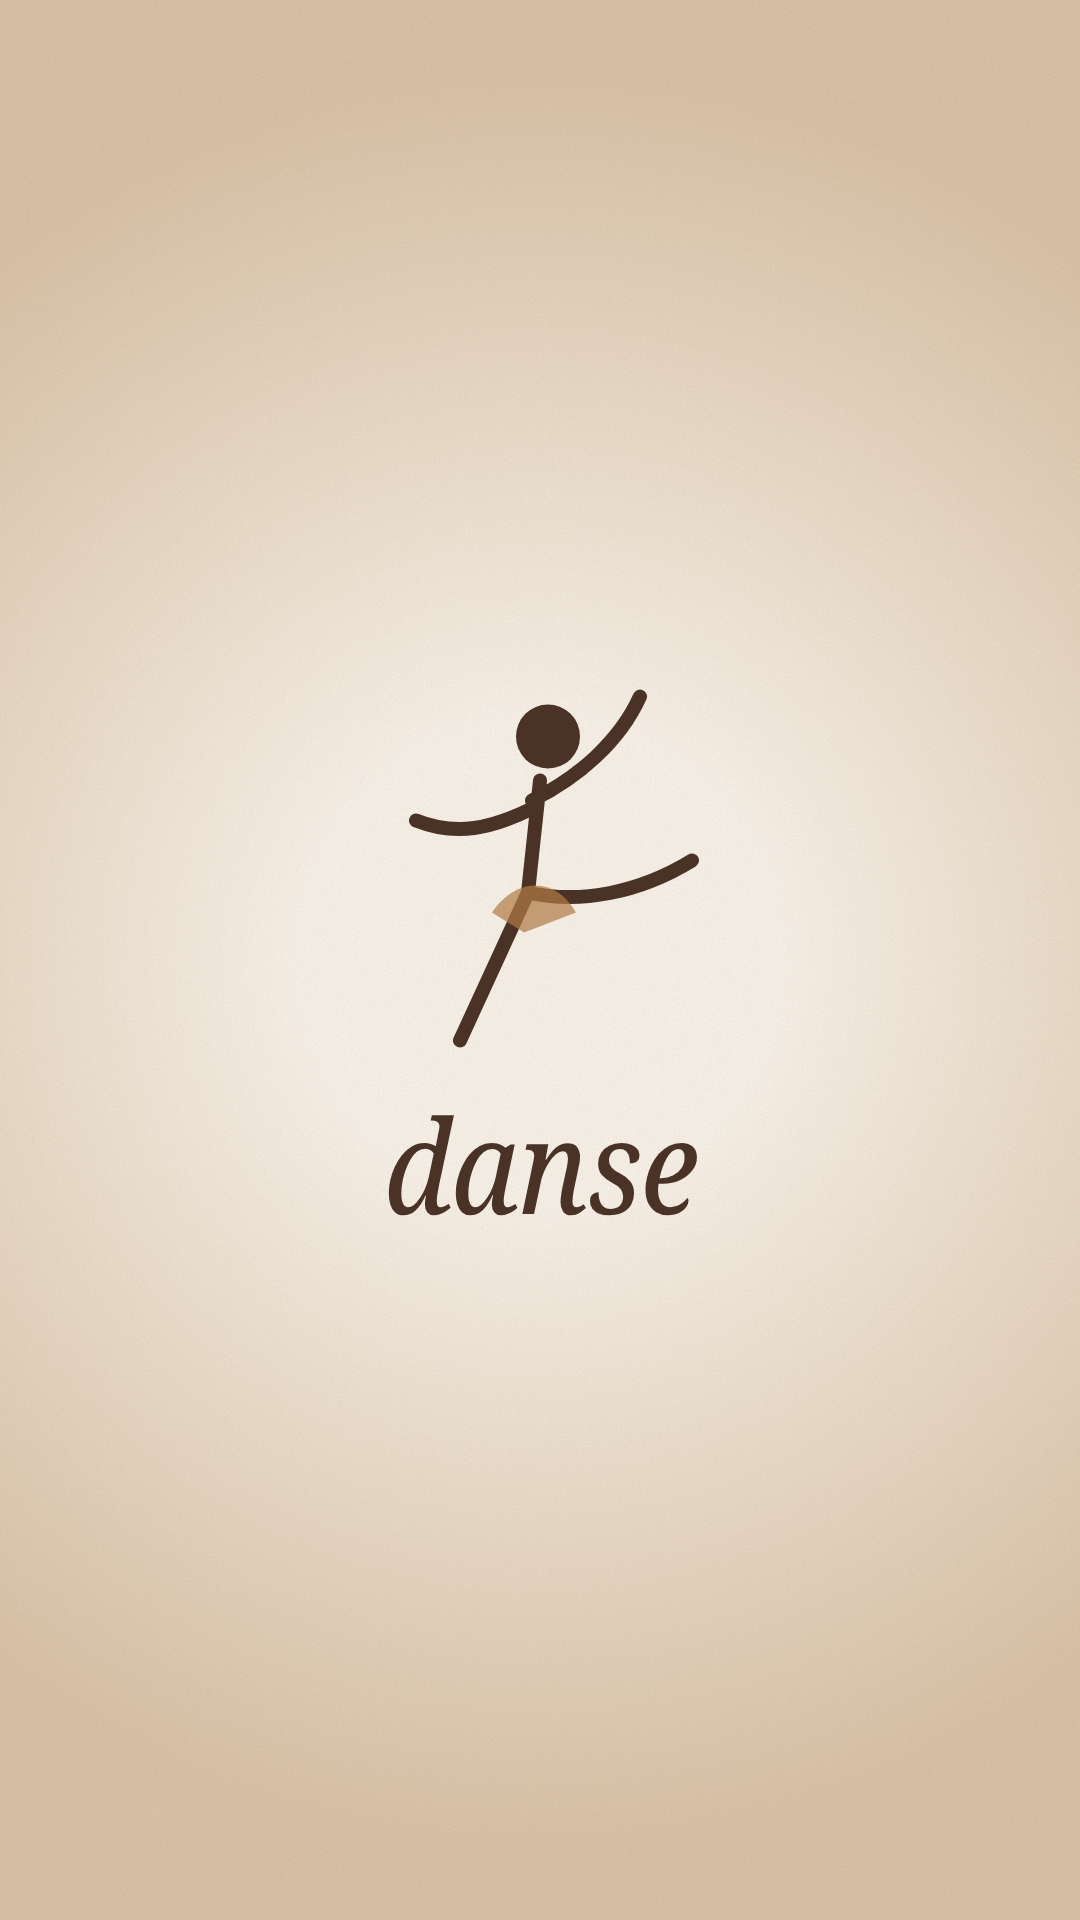
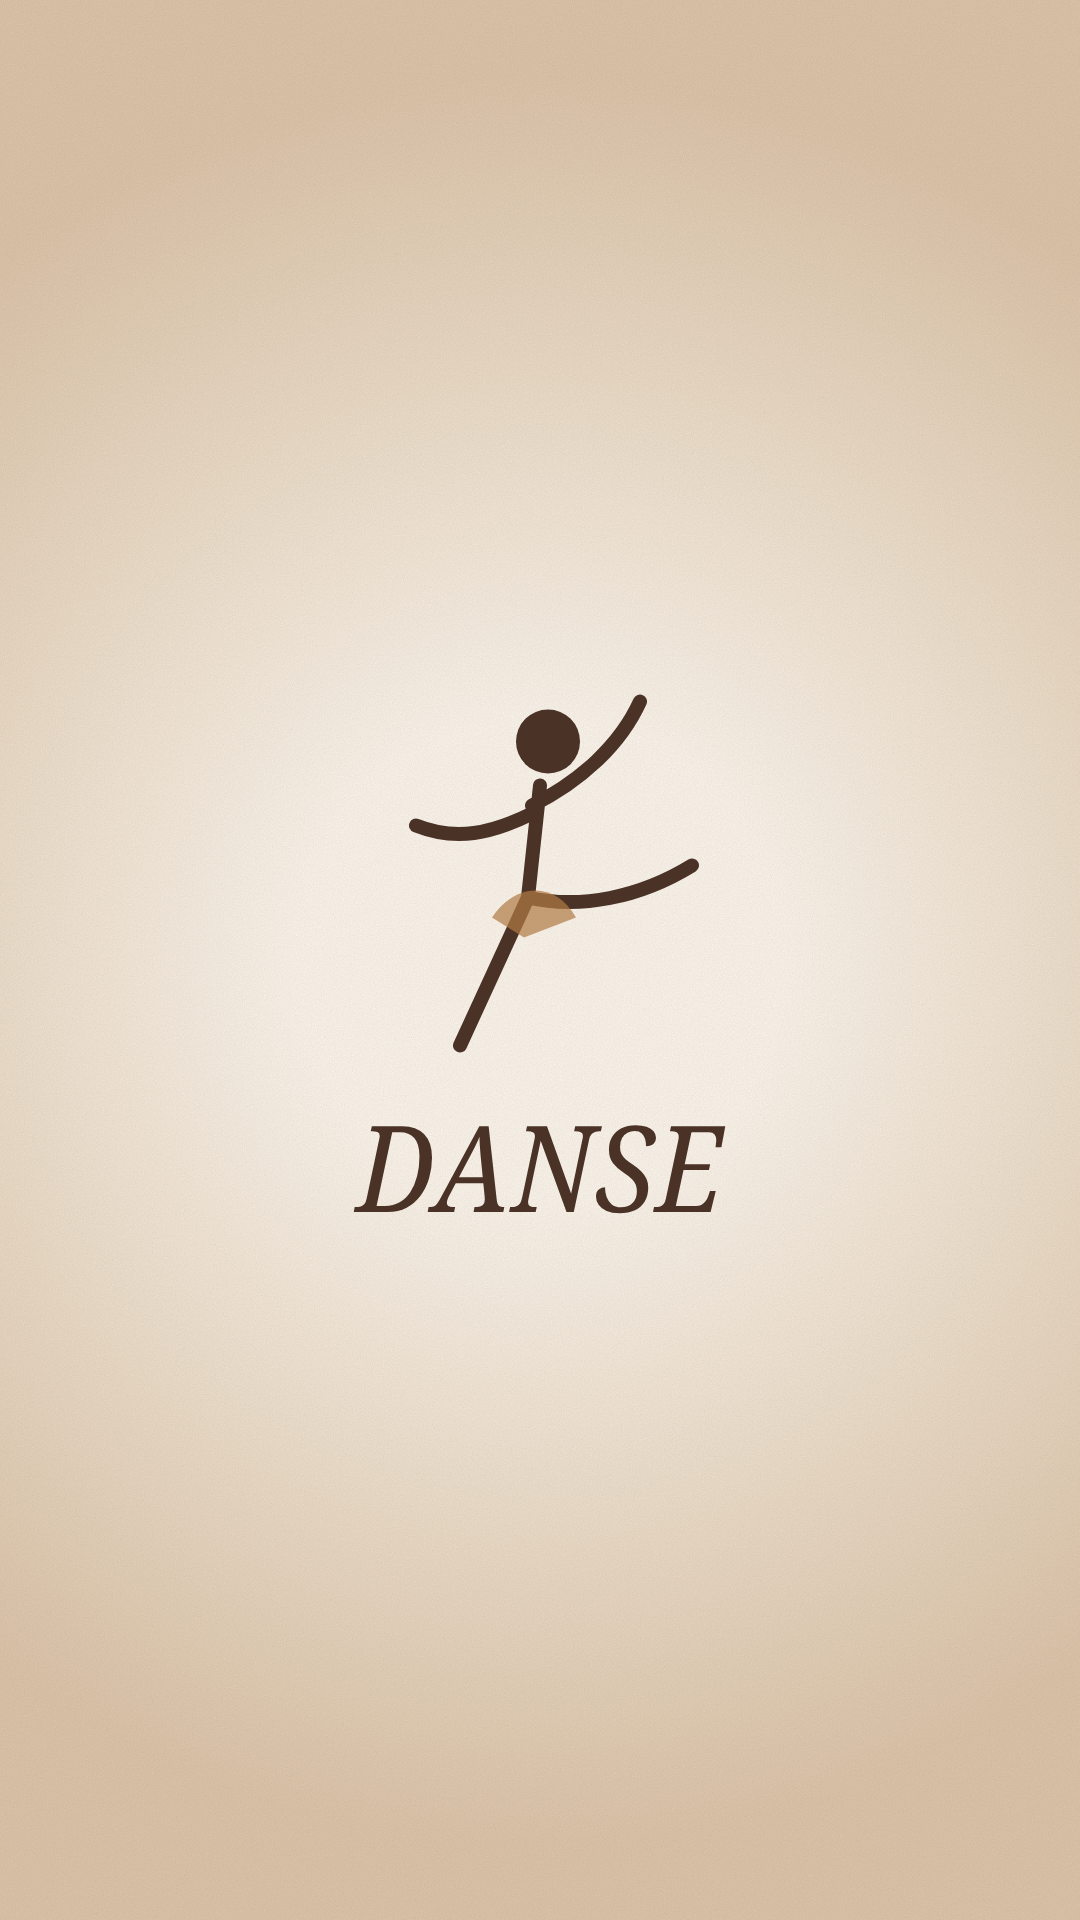
Bulles cocon : MOI, DANSE, CLUB, SPORT, VRAIE VIE, FOOD
Claude-Session: https://claude.ai/code/session_01M6s8wp3XpgKUKSTkvZAW4S

diff --git a/couvertures-bulles-cocon/gen.js b/couvertures-bulles-cocon/gen.js
@@ -10,16 +10,19 @@ const icons={
  tasse:`<svg viewBox="0 0 200 200"><path d="M40 84 H140 V140 C140 164 120 180 96 180 H84 C60 180 40 164 40 140Z" ${S}/><path d="M140 100 H154 C170 100 170 132 154 132 H140" ${S}/><path d="M64 84 V100 C64 112 116 112 116 100 V84" fill="${M}" opacity=".35"/><path d="M90 66 C78 56 82 44 92 40 C100 36 104 44 100 50 C112 40 124 50 112 62 L90 70Z" fill="${M}"/></svg>`,
  halt:`<svg viewBox="0 0 200 200"><path d="M50 100 H150" ${S}/><rect x="28" y="62" width="22" height="76" rx="8" ${S}/><rect x="150" y="62" width="22" height="76" rx="8" ${S}/><rect x="10" y="80" width="16" height="40" rx="6" fill="${M}"/><rect x="174" y="80" width="16" height="40" rx="6" fill="${M}"/></svg>`,
  tel:`<svg viewBox="0 0 200 200"><rect x="56" y="20" width="88" height="160" rx="18" ${S}/><path d="M86 36 H114" ${S} stroke-width="6"/><path d="M100 132 C86 120 72 112 72 98 C72 86 86 80 100 92 C114 80 128 86 128 98 C128 112 114 120 100 132Z" fill="${M}"/><path d="M162 40 l5 14 14 5 -14 5 -5 14 -5 -14 -14 -5 14 -5Z" fill="${M}"/></svg>`,
+ cerise:`<svg viewBox="0 0 200 200"><path d="M100 34 C92 70 74 96 66 120 M100 34 C110 72 126 98 136 124" ${S}/><path d="M100 34 C120 20 150 24 164 42 C142 52 118 48 100 34Z" fill="${M}"/><circle cx="62" cy="146" r="34" fill="#9C2F2F"/><circle cx="140" cy="150" r="34" fill="#9C2F2F"/><path d="M48 134 a16 16 0 0 1 14 -10 M126 138 a16 16 0 0 1 14 -10" stroke="#F6EFE6" stroke-width="6" fill="none" stroke-linecap="round"/></svg>`,
+ camera:`<svg viewBox="0 0 200 200"><rect x="22" y="60" width="156" height="112" rx="22" ${S}/><path d="M70 60 L82 38 H118 L130 60" ${S}/><circle cx="100" cy="116" r="32" ${S}/><circle cx="100" cy="116" r="14" fill="${M}"/><circle cx="152" cy="84" r="7" fill="${M}"/></svg>`,
+ assiette:`<svg viewBox="0 0 200 200"><circle cx="100" cy="110" r="62" ${S}/><circle cx="100" cy="110" r="40" fill="${M}" opacity=".35"/><path d="M22 40 V186 M12 40 V72 a10 10 0 0 0 20 0 V40" ${S} stroke-width="6"/><path d="M186 186 V40 C168 50 166 90 174 110 H186" ${S} stroke-width="6"/></svg>`,
  miel:`<svg viewBox="0 0 200 200"><rect x="50" y="40" width="100" height="22" rx="8" fill="${M}"/><path d="M58 62 H142 C166 86 170 136 148 162 C132 182 68 182 52 162 C30 136 34 86 58 62Z" ${S}/><path d="M60 66 H140 C140 84 128 82 128 96 C128 108 114 108 114 96 C114 84 80 92 76 104 C72 116 60 108 60 96Z" fill="${M}" opacity=".55"/><path d="M80 130 Q100 142 120 130" ${S} stroke-width="5" opacity=".6"/></svg>`,
 };
-const bulles=[['me','me','ours'],['noel','noël','sapin'],['danse','danse','danse'],['annecy','annecy','lac'],['cocon','cocon','tasse'],['sport','sport','halt'],['daily','daily','miel'],['ugc','ugc','tel']];
+const bulles=[['moi','MOI','ours'],['danse','DANSE','danse'],['club','CLUB','cerise'],['sport','SPORT','halt'],['vraie-vie','VRAIE VIE','camera'],['food','FOOD','assiette']];
 const html=(icon,word)=>`<!doctype html><html><head><meta charset="utf-8"><link href="https://fonts.googleapis.com/css2?family=Noto+Serif:ital,wdth,wght@1,62.5..100,400&display=block" rel="stylesheet"><style>
 *{margin:0;padding:0}body{width:1080px;height:1920px;overflow:hidden;background:#E8D9C6}
 .bg{position:absolute;inset:0;background:radial-gradient(circle at 50% 50%,#FBF6EF 0 22%,#EFE3D3 45%,#DCC6AC 80%)}
 .grain{position:absolute;inset:0;opacity:.18;mix-blend-mode:multiply}
 .in{position:absolute;left:50%;top:50%;transform:translate(-50%,-50%);display:flex;flex-direction:column;align-items:center}
 .in svg.i{width:400px;height:400px}
-.w{font-family:'Noto Serif';font-style:italic;font-variation-settings:'wdth' 80;font-size:130px;color:#4A3226;margin-top:6px;letter-spacing:-1px}
+.w{font-family:'Noto Serif';font-style:italic;font-variation-settings:'wdth' 80;font-size:120px;color:#4A3226;margin-top:10px;letter-spacing:2px;white-space:nowrap}
 </style></head><body><div class="bg"></div>
 <svg class="grain" width="1080" height="1920"><filter id="n"><feTurbulence type="fractalNoise" baseFrequency=".9" numOctaves="2" stitchTiles="stitch"/><feColorMatrix values="0 0 0 0 .3  0 0 0 0 .2  0 0 0 0 .1  0 0 0 .9 0"/></filter><rect width="100%" height="100%" filter="url(#n)"/></svg>
 <div class="in">${icon.replace('<svg ','<svg class="i" ')}<div class="w">${word}</div></div></body></html>`;
